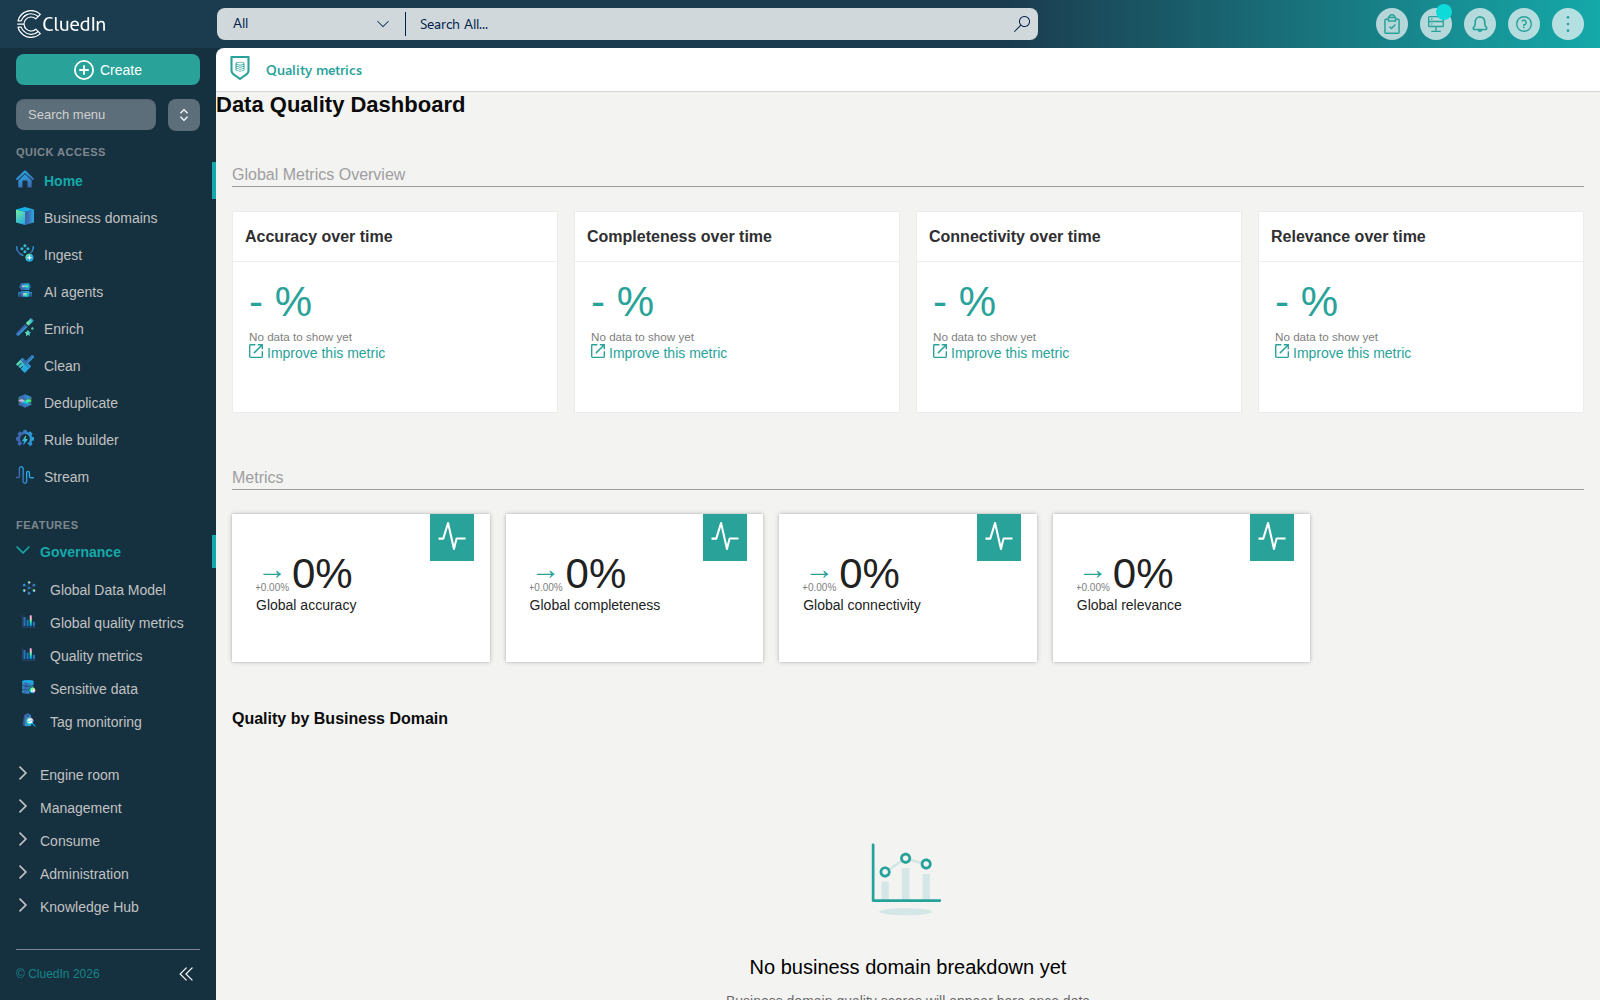
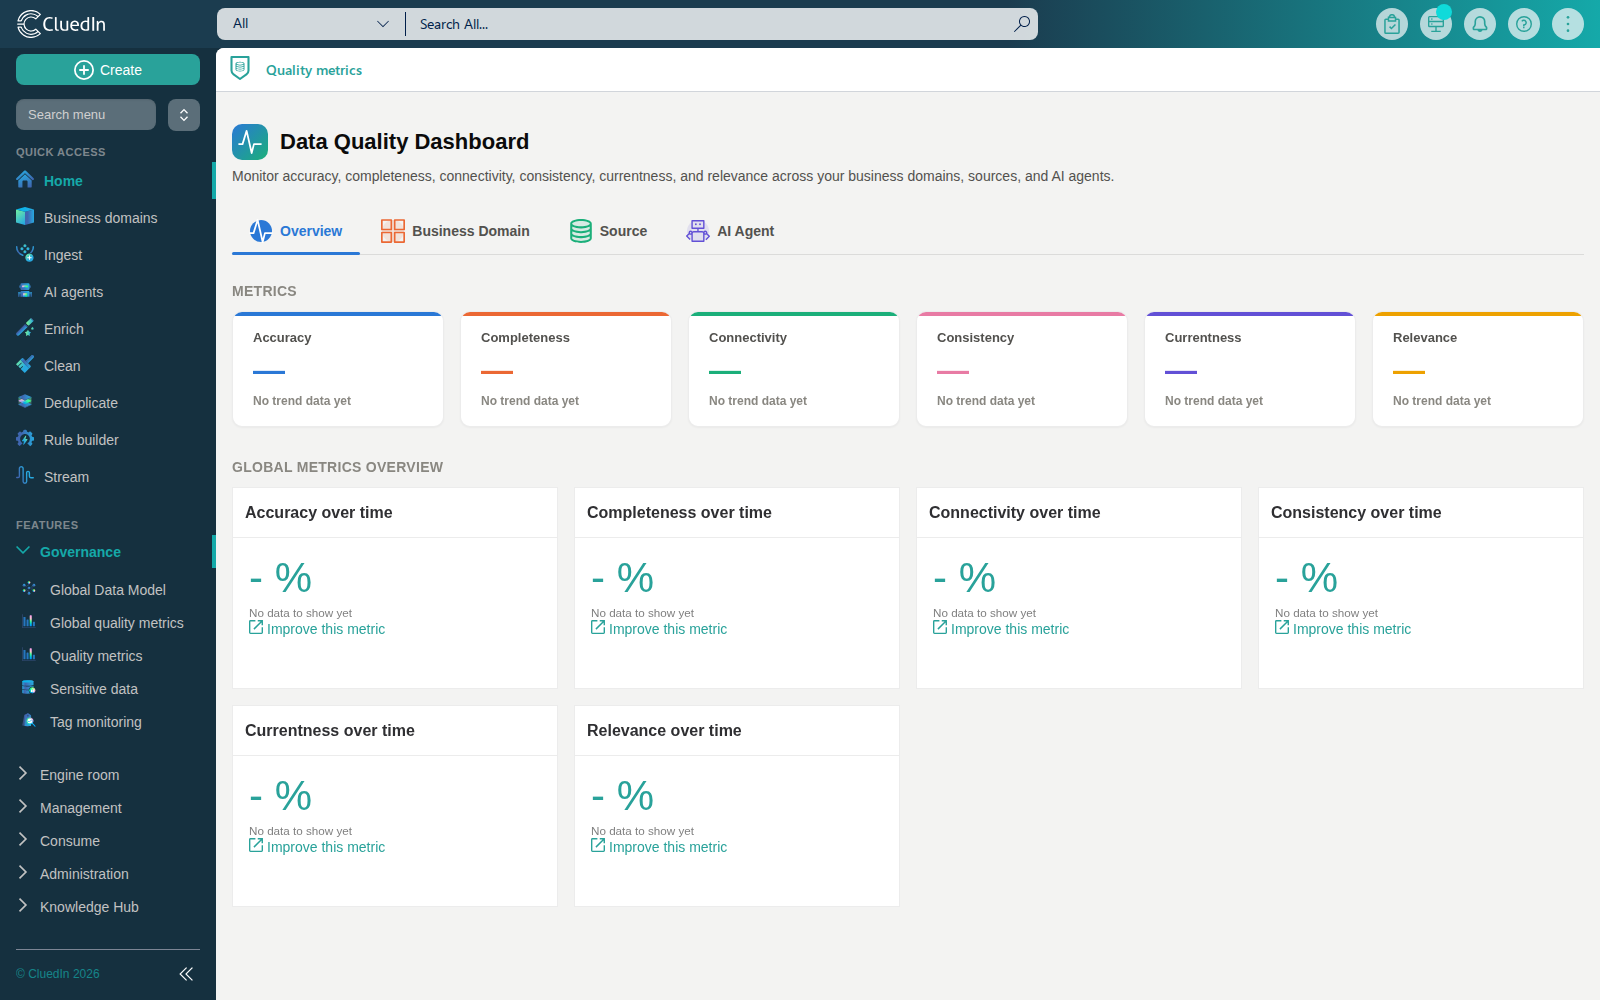
Document ISO 25012 Consistency/Currentness and the tabbed dashboard
Updates the Data Quality Dashboard page for the dashboard's redesign
into four tabs, and documents the two new ISO/IEC 25012-based
metrics (Consistency, Currentness). Replaces the stale pre-redesign
screenshots with fresh ones matching the current tabbed layout and
six metrics.

diff --git a/docs/070-governance/030-data-quality-dashboard.md b/docs/070-governance/030-data-quality-dashboard.md
@@ -4,7 +4,7 @@ title: Data Quality Dashboard
 parent: Governance
 nav_order: 3
 permalink: /governance/data-quality-dashboard
-tags: ["governance", "data quality", "metrics", "accuracy", "completeness", "connectivity", "relevance", "business domains", "ai agents"]
+tags: ["governance", "data quality", "metrics", "accuracy", "completeness", "connectivity", "relevance", "consistency", "currentness", "iso 25012", "business domains", "ai agents"]
 last_modified: 2026-10-12
 ---
 
@@ -13,7 +13,10 @@ last_modified: 2026-10-12
 - TOC
 {:toc}
 
-The **Data Quality Dashboard** gives you a single, visual overview of the quality of the data mastered in CluedIn. It is built on the same four data quality metrics used across CluedIn—**Accuracy**, **Completeness**, **Connectivity**, and **Relevance**—and breaks them down by business domain, by source, and by AI agent, so you can quickly see where data quality issues are concentrated and act on them.
+The **Data Quality Dashboard** gives you a single, visual overview of the quality of the data mastered in CluedIn. It is built on six data quality metrics—**Accuracy**, **Completeness**, **Connectivity**, **Consistency**, **Currentness**, and **Relevance**—and breaks them down by business domain, by source, and by AI agent, so you can quickly see where data quality issues are concentrated and act on them.
+
+{:.note}
+Consistency and Currentness are based on the [ISO/IEC 25012](https://en.wikipedia.org/wiki/ISO/IEC_25012) data quality characteristics of the same name. Consistency measures how often different sources agree on the same property value; Currentness measures how recently a record was last modified relative to an expected refresh interval (configurable by an administrator, 90 days by default).
 
 **To open the Data Quality Dashboard**
 
@@ -21,7 +24,12 @@ The **Data Quality Dashboard** gives you a single, visual overview of the qualit
 
     ![data-quality-dashboard-overview.png]({{ "/assets/images/governance/data-quality-dashboard/data-quality-dashboard-overview.png" | relative_url }})
 
-At the top of the page, the **Global Metrics Overview** and **Metrics** sections show each of the four data quality metrics as an overall, organization-wide score. Below them, the dashboard provides the following sections.
+The dashboard is organized into four tabs:
+
+- **Overview** – each of the six data quality metrics as an overall, organization-wide score, plus their trend over time.
+- **Business Domain** – the [Quality by Business Domain](#quality-by-business-domain) heatmap.
+- **Source** – the [Quality by Source](#quality-by-source) breakdown.
+- **AI Agent** – the [Quality by AI Agent](#quality-by-ai-agent) summary.
 
 ## Quality by Business Domain
 
@@ -36,9 +44,9 @@ A business domain only appears in the heatmap once data quality metrics have bee
 
 The **Quality by Source** section lists every source connected to your CluedIn environment, together with its icon, so you can identify at a glance which systems are feeding data into CluedIn. Where the data quality metrics have been calculated for a specific source, the corresponding score is shown next to it; otherwise, the entry shows **No data yet**.
 
-![quality-by-source-and-ai-agent.png]({{ "/assets/images/governance/data-quality-dashboard/quality-by-source-and-ai-agent.png" | relative_url }})
-
 If no sources are connected yet, this section shows an empty state instead of the list.
+
+![quality-by-source.png]({{ "/assets/images/governance/data-quality-dashboard/quality-by-source.png" | relative_url }})
 
 ## Quality by AI Agent
 
@@ -49,6 +57,8 @@ The **Quality by AI Agent** section lists your [AI agents](/management/ai-agents
 - **Est. quality improvement** – an estimate, in percentage points, of how much the data quality metrics would improve, on average, if all of that agent's pending results were approved. This estimate is only shown while the agent has at least one pending result; otherwise, the entry shows **No pending results to review**.
 
 If no AI agents exist in your environment yet, this section shows an empty state instead of the list.
+
+![quality-by-ai-agent.png]({{ "/assets/images/governance/data-quality-dashboard/quality-by-ai-agent.png" | relative_url }})
 
 ## Data quality for a Stream
 
